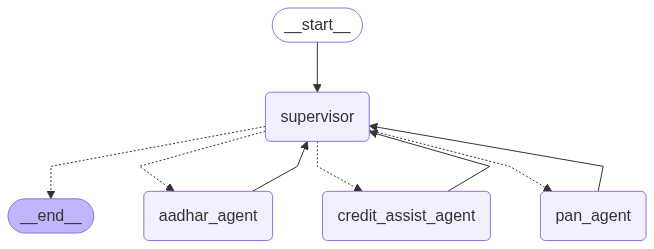
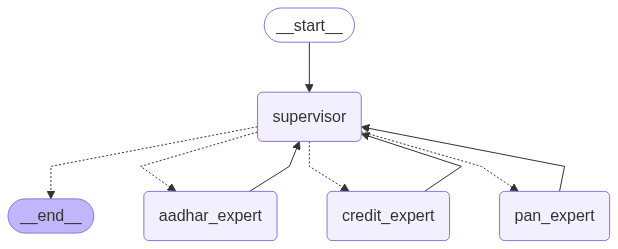
Fix: Updated Supervisor agent to retrieve state

diff --git a/pnb/langgraph/agents/supervisor.py b/pnb/langgraph/agents/supervisor.py
@@ -1,49 +1,133 @@
 from pnb.langgraph.agents.credit_assist_agent import CreditAssistAgent
 from pnb.langgraph.agents.pan_agent import PANAgent
-from langchain_core.runnables import RunnableConfig
 from pnb.langgraph.agents.aadhar_agent import AADHARAgent
-from langgraph.graph import StateGraph, START, MessagesState, END
+from langchain_core.runnables import RunnableConfig
+from langgraph.graph import StateGraph, START, END
 from langgraph.checkpoint.memory import MemorySaver
-from langgraph.types import Checkpointer
 from langgraph_supervisor import create_supervisor
 from pnb.langgraph.utils import OPENAI_LLM
 from pnb.langgraph.structured_output import Credit
+from typing import TypedDict, Optional
+from langgraph.prebuilt.chat_agent_executor import AgentStateWithStructuredResponse  # Add this import
 
+# Custom state schema
+class LoanApplicationState(AgentStateWithStructuredResponse):
+    pan_no: Optional[str] = None
+    aadhar_no: Optional[str] = None
+    loan_details: Optional[dict] = None
+
+# Pre-model hook to initialize state from config metadata
+def pre_model_hook(state: LoanApplicationState, config: RunnableConfig) -> dict:
+    metadata = config.get("configurable", {}).get("metadata", {})
+    return {
+        "pan_no": metadata.get("pan_no"),
+        "aadhar_no": metadata.get("aadhar_no"),
+        "loan_details": metadata.get("documents").get("loan_application_document"),
+        "messages": state.get("messages", []),  # Preserve existing messages
+    }
+
+# Define a callable prompt
+def supervisor_prompt(state: LoanApplicationState) -> str:
+    return f"""
+    You are a Supervisor Agent responsible for processing loan applications and generating a Credit Analysis Memorandum (CAM) report. You have access to the following details:
+    - PAN number: {state.get('pan_no', 'Not provided')}
+    - Aadhar number: {state.get('aadhar_no', 'Not provided')}
+    - Loan details: {state.get('loan_details', 'Not provided')}
+
+    You have three specialized agents at your disposal:
+    1. **pan_agent**: Verifies the applicant's PAN (Permanent Account Number) and returns verified or not verified.
+    2. **aadhar_agent**: Validates the applicant's Aadhar number and returns verified or not verified.
+    3. **credit_assist_agent**: Analyzes the loan application, including loan type, financials (e.g., income, credit score), risk grade, and provides a recommendation (e.g., Approve, Reject, Review).
+
+    Your task is to:
+    1. Use the provided PAN number, Aadhar number, and loan details.
+    2. Invoke the appropriate agents using their respective tools: `transfer_to_pan_agent`, `transfer_to_aadhar_agent`, and `transfer_to_credit_assist_agent`.
+    3. Pass the relevant data (e.g., PAN number to pan_agent, Aadhar number to aadhar_agent, loan details to credit_assist_agent) when invoking the agents.
+    4. Collect the outputs from each agent.
+    5. Generate a CAM report with the following fields:
+       - **Reviews**: Details from the credit_assist_agent
+       - **PAN Verification**: Details from the pan_agent (e.g., is_valid, blacklisted, details)
+       - **Aadhar Verification**: Details from the aadhar_agent (e.g., is_valid, kyc_status, details)
+       - **Loan Type**: The type of loan requested (e.g., personal, home, auto) from the input loan details
+       - **Financials**: Financial details (e.g., income, credit score, debt-to-income ratio) from the credit_assist_agent or input loan details
+       - **Risk Grade**: Risk assessment (e.g., Low, Medium, High) from the credit_assist_agent
+       - **Recommendation**: Final recommendation (e.g., Approve, Reject, Review) from the credit_assist_agent or based on human review flag
+    6. Return the CAM report in the structured format as specified.
+
+    Ensure all agent interactions are logged in the state’s message history for transparency. Return the CAM report as a structured response, and do not include any additional commentary outside the structured format unless explicitly requested.
+    """
 
 async def credit_supervisor():
-    
     supervisor = create_supervisor(
-        [await CreditAssistAgent.credit_assist_agent(), await PANAgent.pan_agent(), await AADHARAgent.aadhar_agent()],
+        [
+            await CreditAssistAgent.credit_assist_agent(),
+            await PANAgent.pan_agent(),
+            await AADHARAgent.aadhar_agent(),
+        ],
         model=OPENAI_LLM,
         tools=[],
         output_mode="last_message",
-        response_format=(Credit),
-        prompt=f"""
-        You are a Supervisor Agent responsible for processing loan applications and generating a Credit Analysis Memorandum (CAM) report. You have three specialized agents at your disposal:
-1. **pan_agent**: Verifies the applicant's PAN (Permanent Account Number) and returns verified or not verified.
-2. **aadhar_agent**: Validates the applicant's Aadhar number and returns verified or not verified.
-3. **credit_assist_agent**: Analyzes the loan application, including loan type, financials (e.g., income, credit score), risk grade, and provides a recommendation (e.g., Approve, Reject, Review).
-
-Your task is to:
-1. Receive the loan application details, including application ID, PAN number, Aadhar number, and loan details (e.g., loan type, amount, credit score).
-2. Invoke the appropriate agents using their respective tools: `transfer_to_pan_agent`, `transfer_to_aadhar_agent`, and `transfer_to_credit_assist_agent`.
-3. Collect the outputs from each agent.
-4. Get the responses from the agents and generate a CAM report with the following fields:
-   - **Reviews**: Details from the credit_assist_agent
-   - **PAN Verification**: Details from the pan_agent (e.g., is_valid, blacklisted, details).
-   - **Aadhar Verification**: Details from the aadhar_agent (e.g., is_valid, kyc_status, details).
-   - **Loan Type**: The type of loan requested (e.g., personal, home, auto) from the input loan details.
-   - **Financials**: Financial details (e.g., income, credit score, debt-to-income ratio) from the credit_assist_agent or input loan details.
-   - **Risk Grade**: Risk assessment (e.g., Low, Medium, High) from the credit_assist_agent.
-   - **Recommendation**: Final recommendation (e.g., Approve, Reject, Review) from the credit_assist_agent or based on human review flag.
-7. Return the CAM report in the format as above.
-
-
-Ensure all agent interactions are logged in the state’s message history for transparency. Return the CAM report as a structured response, and do not include any additional commentary outside the structured format unless explicitly requested.
-        """
+        response_format=Credit,  # No need for tuple since prompt is provided separately
+        config_schema=RunnableConfig,
+        state_schema=LoanApplicationState,  # Use custom state schema
+        pre_model_hook=pre_model_hook,  # Add pre-model hook
+        prompt=supervisor_prompt
+        
     )
 
     return supervisor
+
+
+# from pnb.langgraph.agents.credit_assist_agent import CreditAssistAgent
+# from pnb.langgraph.agents.pan_agent import PANAgent
+# from langchain_core.runnables import RunnableConfig
+# from pnb.langgraph.agents.aadhar_agent import AADHARAgent
+# from langgraph.graph import StateGraph, START, MessagesState, END
+# from langgraph.checkpoint.memory import MemorySaver
+# from langgraph.types import Checkpointer
+# from langgraph_supervisor import create_supervisor
+# from pnb.langgraph.utils import OPENAI_LLM
+# from pnb.langgraph.structured_output import Credit
+
+
+# async def credit_supervisor():
+
+
+    
+#     supervisor = create_supervisor(
+#         [await CreditAssistAgent.credit_assist_agent(), await PANAgent.pan_agent(), await AADHARAgent.aadhar_agent()],
+#         model=OPENAI_LLM,
+#         tools=[],
+#         output_mode="last_message",
+#         response_format=(Credit),
+#         config_schema=RunnableConfig,
+#         prompt=f"""
+#         You are a Supervisor Agent responsible for processing loan applications and generating a Credit Analysis Memorandum (CAM) report. You have three specialized agents at your disposal:
+# 1. **pan_agent**: Verifies the applicant's PAN (Permanent Account Number) and returns verified or not verified.
+# 2. **aadhar_agent**: Validates the applicant's Aadhar number and returns verified or not verified.
+# 3. **credit_assist_agent**: Analyzes the loan application, including loan type, financials (e.g., income, credit score), risk grade, and provides a recommendation (e.g., Approve, Reject, Review).
+
+# Your task is to:
+# 1. Receive the loan application details, including application ID, PAN number, Aadhar number, and loan details (e.g., loan type, amount, credit score).
+# 2. Invoke the appropriate agents using their respective tools: `transfer_to_pan_agent`, `transfer_to_aadhar_agent`, and `transfer_to_credit_assist_agent`.
+# 3. Collect the outputs from each agent.
+# 4. Get the responses from the agents and generate a CAM report with the following fields:
+#    - **Reviews**: Details from the credit_assist_agent
+#    - **PAN Verification**: Details from the pan_agent (e.g., is_valid, blacklisted, details).
+#    - **Aadhar Verification**: Details from the aadhar_agent (e.g., is_valid, kyc_status, details).
+#    - **Loan Type**: The type of loan requested (e.g., personal, home, auto) from the input loan details.
+#    - **Financials**: Financial details (e.g., income, credit score, debt-to-income ratio) from the credit_assist_agent or input loan details.
+#    - **Risk Grade**: Risk assessment (e.g., Low, Medium, High) from the credit_assist_agent.
+#    - **Recommendation**: Final recommendation (e.g., Approve, Reject, Review) from the credit_assist_agent or based on human review flag.
+# 7. Return the CAM report in the format as above.
+
+
+# Ensure all agent interactions are logged in the state’s message history for transparency. Return the CAM report as a structured response, and do not include any additional commentary outside the structured format unless explicitly requested.
+#         """
+#     )
+
+#     return supervisor
+
 
 
 

diff --git a/pnb/langgraph/agents/credit_assist_agent.py b/pnb/langgraph/agents/credit_assist_agent.py
@@ -17,23 +17,18 @@ class CreditAssistAgent():
     @staticmethod
     async def credit_assist_agent():
         
-        # loan_document = config["configurable"]["documents"]
-        # document = await LoanApplication.find_one({"_id": ObjectId(project_id)})
-        # document = document.loan_document.url
-        
-        # instructions = await Instruction.find({"_id": ObjectId(project_id)}).to_list()
-        # instruction_set = [instruction.content for instruction in instructions]
-        credit_assist_agent = create_react_agent(
+        return  create_react_agent(
             OPENAI_LLM,
-            name=CreditAssistAgent.agent_name,
+            name="credit_expert",
             tools=[extract_from_pdf],
             prompt=(
                 """
-                You are a Credit Assist Agent, a highly analytical and rule-based AI designed to evaluate loan applications with precision and impartiality. Your task is to process a loan application by following the provided {instruction_set} and utilizing a parser tool to extract relevant content from the {loan_application}. Based on the extracted data and the instruction set, you will analyze the application, check for compliance with financial and regulatory requirements, and provide a detailed output including the review(all the discrepancies(alert, title, message)), financials, loan type, risk grade, and recommendation.
+                You are a Credit Assist Agent, a highly analytical and rule-based AI designed to evaluate loan applications with precision and impartiality. Your task is to process a loan application by following the provided instruction_set and utilizing a parser tool to extract relevant content from the loan_application. You will get the loan application from the supervisor. Based on the extracted data and the instruction set, you will analyze the application, check for compliance with financial and regulatory requirements, and provide a detailed output including the review(all the discrepancies(alert, title, message)), financials, loan type, risk grade, and recommendation.
 
-Instructions:
+**Return your response to the supervisor.**
+                Instructions:
 Parse the Loan Application:
-Use the parser tool to extract key details from the {loan_application}, including but not limited to:
+Use the parser tool to extract key details from the loan_application, including but not limited to:
 
 Applicant details (name, entity type: individual or corporate).
 
@@ -93,7 +88,7 @@ Ensure the output is clear, concise, and free of errors"""
             ),
         )
 
-        return credit_assist_agent
+        return credit_assist_agent_obj
 
         #result = await pan_agent.ainvoke(state)
         # return result['structured_response']

diff --git a/pnb/langgraph/agents/aadhar_agent.py b/pnb/langgraph/agents/aadhar_agent.py
@@ -9,6 +9,7 @@ from pnb.langgraph.utils import OPENAI_LLM
 # from pnb.db.data_models import Bid
 from bson import ObjectId
 from pnb.langgraph.tools.aadhar_tool import aadhar_tool
+from langchain_core.runnables import RunnableConfig
 
 
 class AADHARAgent():
@@ -17,7 +18,7 @@ class AADHARAgent():
     @staticmethod
     async def aadhar_agent():
         
-        # aadhar_no = config["configurable"]["aadhar_no"]
+        
         #aadhar_document = await LoanApplication.find_one({"_id": ObjectId(project_id)})
         # bid_id = config["configurable"]["bid_id"]
         # document = await Bid.find_one({"_id": bid_id})
@@ -33,15 +34,15 @@ class AADHARAgent():
         # else:
         #     instruction_contents = []
         
-        aadhar_agent = create_react_agent(
+        return create_react_agent(
             OPENAI_LLM,
-            name=AADHARAgent.agent_name,
+            name="aadhar_expert",
             tools=[aadhar_tool],
             prompt=(
                 """
-                You are an efficient AADHAR reviewer agent. You have a tool to check the AADHAR number.
-                Your task is to check the {AADHAR_NUMBER} and check whether it is valid or not. If the tool returns true, then aadhar is verified.
-                If the tool returns false, then aadhar is not verified.
+                You are an efficient AADHAR reviewer agent. You have a tool to check the AADHAR number. You will get the aadhar number from the supervisor.
+                Your task is to check the AADHAR_NUMBER and check whether it is valid or not. If the tool returns true, then aadhar is verified.
+                If the tool returns false, then aadhar is not verified. Return your response to the supervisor.
                 """
             ),
         )

diff --git a/pnb/langgraph/agents/pan_agent.py b/pnb/langgraph/agents/pan_agent.py
@@ -17,7 +17,7 @@ class PANAgent():
     @staticmethod
     async def pan_agent():
         
-        # pan_no = config["configurable"]["pan_no"]
+        
         #project_id = config["configurable"]["project_id"]
         #pan_document = await LoanApplication.find_one({"_id": ObjectId(project_id)})
         # bid_id = config["configurable"]["bid_id"]
@@ -34,15 +34,17 @@ class PANAgent():
         # else:
         #     instruction_contents = []
         
-        pan_agent = create_react_agent(
+        return create_react_agent(
             OPENAI_LLM,
-            name=PANAgent.agent_name,
+            name="pan_expert",
             tools=[pan_tool],
             prompt=(
                 """
-                You are an efficient PAN reviewer agent. You have a tool to check the PAN number.
-                Your task is to check the {PAN_NUMBER} and check whether it is valid or not. If the tool returns true, then pan is verified.
-                If the tool returns false, then pan is not verified.
+                You are an efficient PAN reviewer agent. You have a tool to check the PAN number. You will get the pan number from the supervisor.
+                Your task is to check the PAN_NUMBER and check whether it is valid or not. If the tool returns true, then pan is verified.
+                If the tool returns false, then pan is not verified. 
+                Return your response to the supervisor.
+                In any scenario, Please return to supervisor.
                 """
             ),
         )

diff --git a/pnb/api/v1/loan_application.py b/pnb/api/v1/loan_application.py
@@ -103,8 +103,13 @@ async def patch_application(application_id: str, data: UpdateLoanApplication = B
 @router.post("/review")
 async def review_loan_application(application: LoanApplication = Body(...)):
     #print(application)
-    #config = {"configurable":{"thread_id": application.id,"metadata": application.model_dump()}}
-    #result = GRAPHS['credit'].invoke({"messages":[]},config=config)
-    result = GRAPHS['credit'].invoke({"messages":[]})
+    config = {"configurable":{"thread_id": application.id,"metadata": application.model_dump()}}
+    result = GRAPHS['credit'].invoke({
+            "messages": [],  # Initialize with empty messages
+            "pan_no": application.pan_no,  # Optional: Initialize state directly
+            "aadhar_no": application.aadhar_no,
+            "loan_details": application.documents.loan_application_document,  # Pass loan details directly
+        },config=config)
+    # result = GRAPHS['credit'].invoke({"messages":[]})
     #print(result["structured_response"])
     return result["structured_response"]
